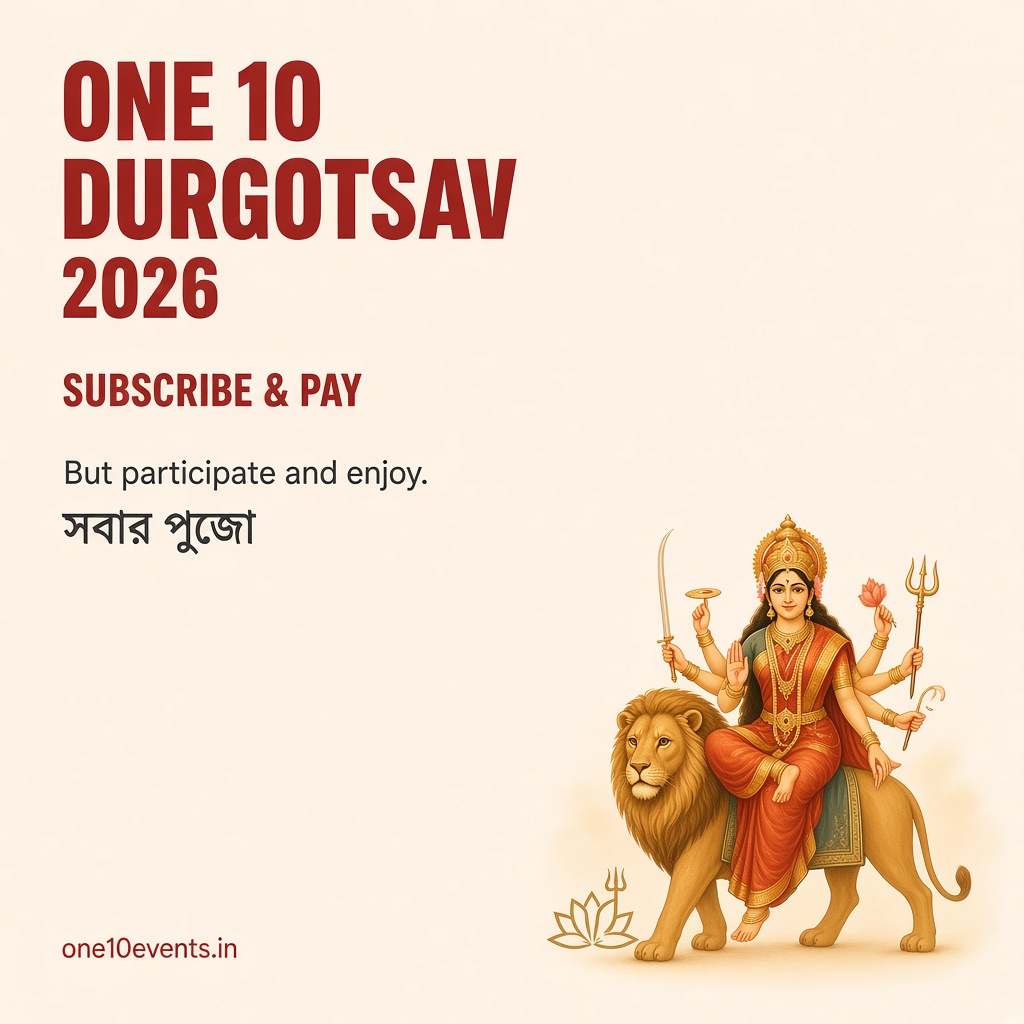
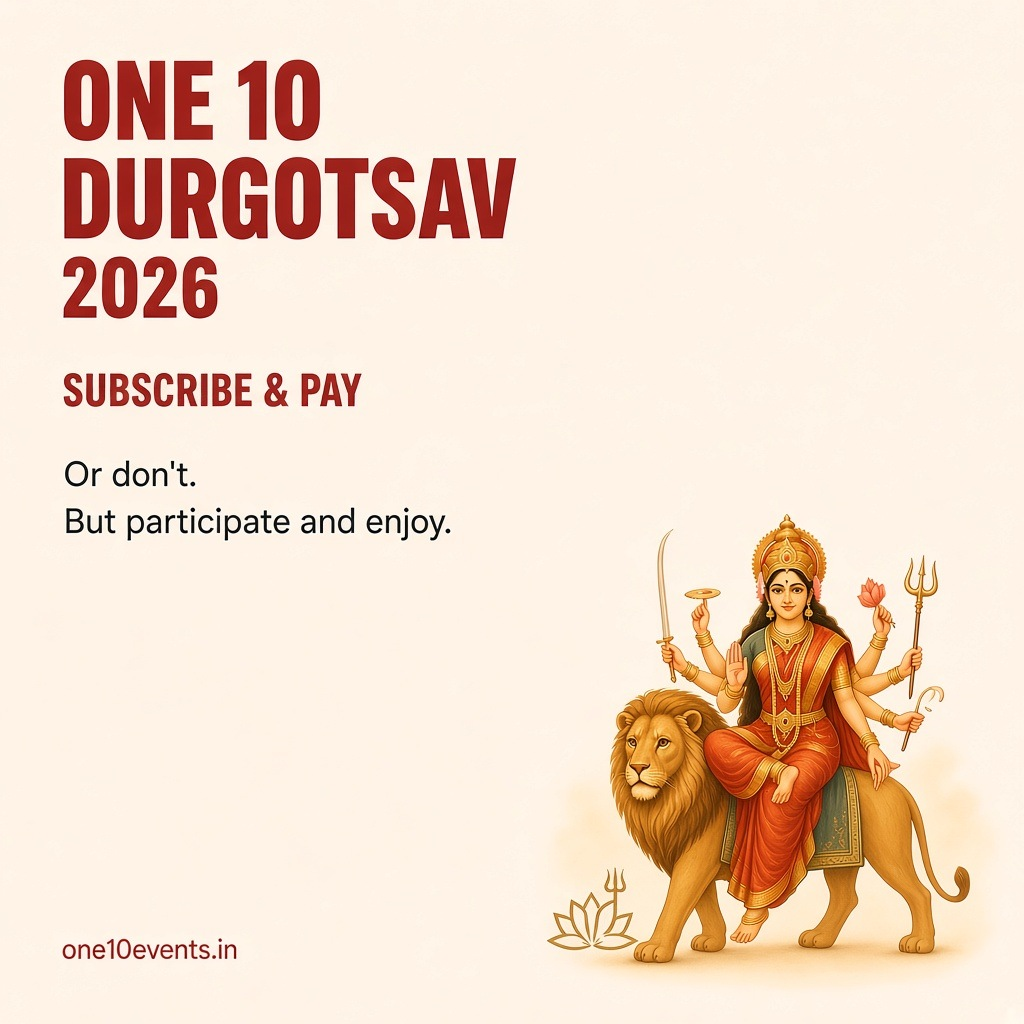
Update invite copy: Or don't, drop সবার পুজো
Restore the Or don't line on the invite page and WhatsApp poster,
and remove the Bengali sobar pujo text.

diff --git a/frontend/src/pages/public/Invite.jsx b/frontend/src/pages/public/Invite.jsx
@@ -38,10 +38,10 @@ export default function Invite() {
           </Link>
 
           <p className="mt-8 text-lg leading-snug text-[#2A1215]/85 sm:text-xl">
-            But participate and enjoy.
+            Or don&apos;t.
           </p>
-          <p className="mt-2 font-display text-2xl text-[#2A1215] sm:text-3xl">
-            সবার পুজো
+          <p className="mt-2 text-lg leading-snug text-[#2A1215]/85 sm:text-xl">
+            But participate and enjoy.
           </p>
         </div>
 
